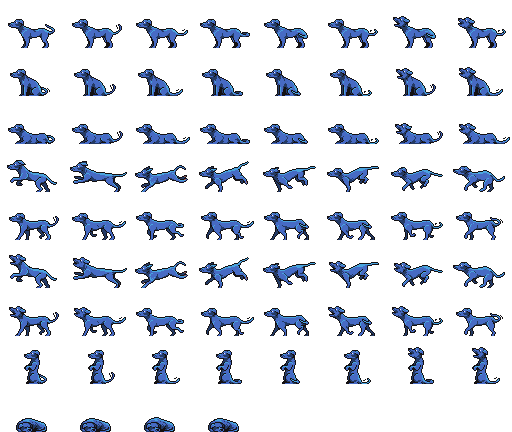
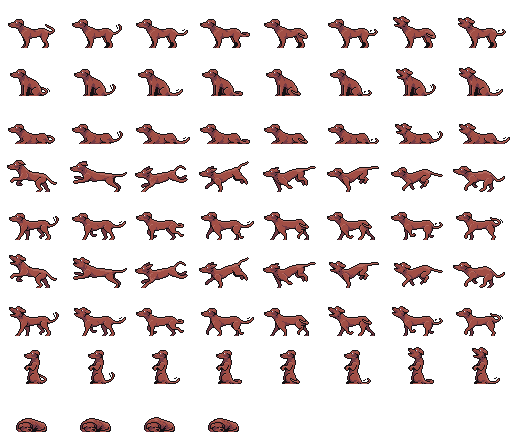
style: update mountain biome

diff --git a/src/doggo/dog/body.py b/src/doggo/dog/body.py
@@ -30,13 +30,11 @@ class Fur(IntEnum):
     DARK_BROWN = 0
     LIGHT_BROWN = auto()
     GREY = auto()
-    BLUE = auto()
     RED_BROWN = auto()
     WHITE = auto()
     WHITE_WITH_BROWN_SPOTS = auto()
     DARK_BROWN_WITH_GREY_SPOTS = auto()
     WHITE_WITH_GREY_SPOTS = auto()
-    BLUE_WITH_BROWN_SPOTS = auto()
     LIGHT_BROWN_WITH_WHITE_SPOTS = auto()
     ORANGE = auto()
 
